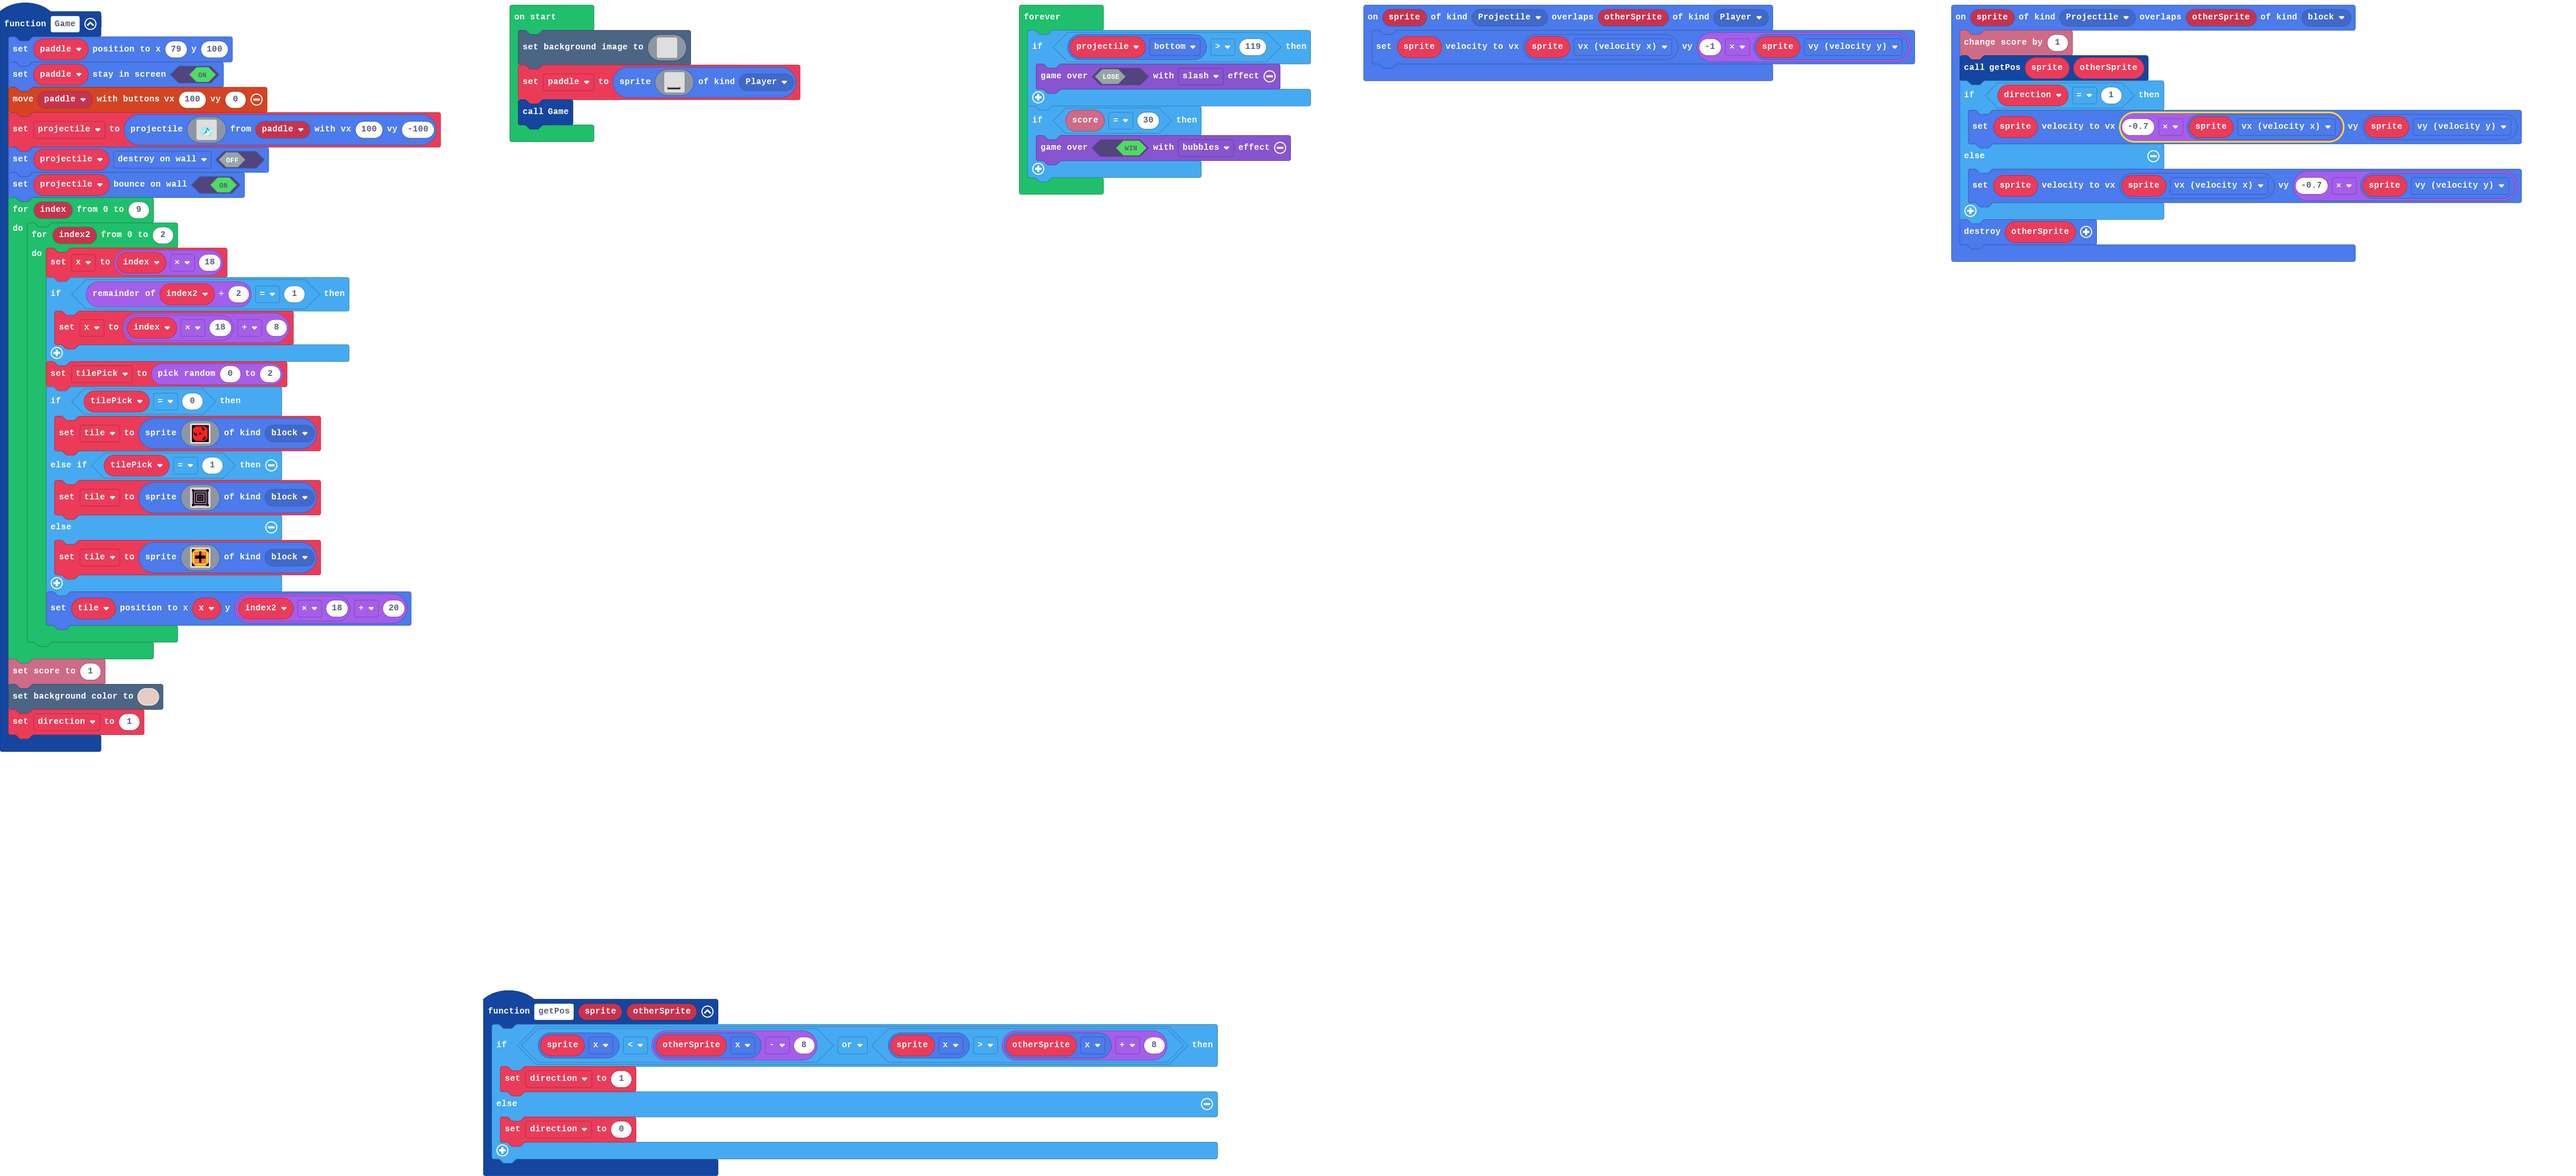
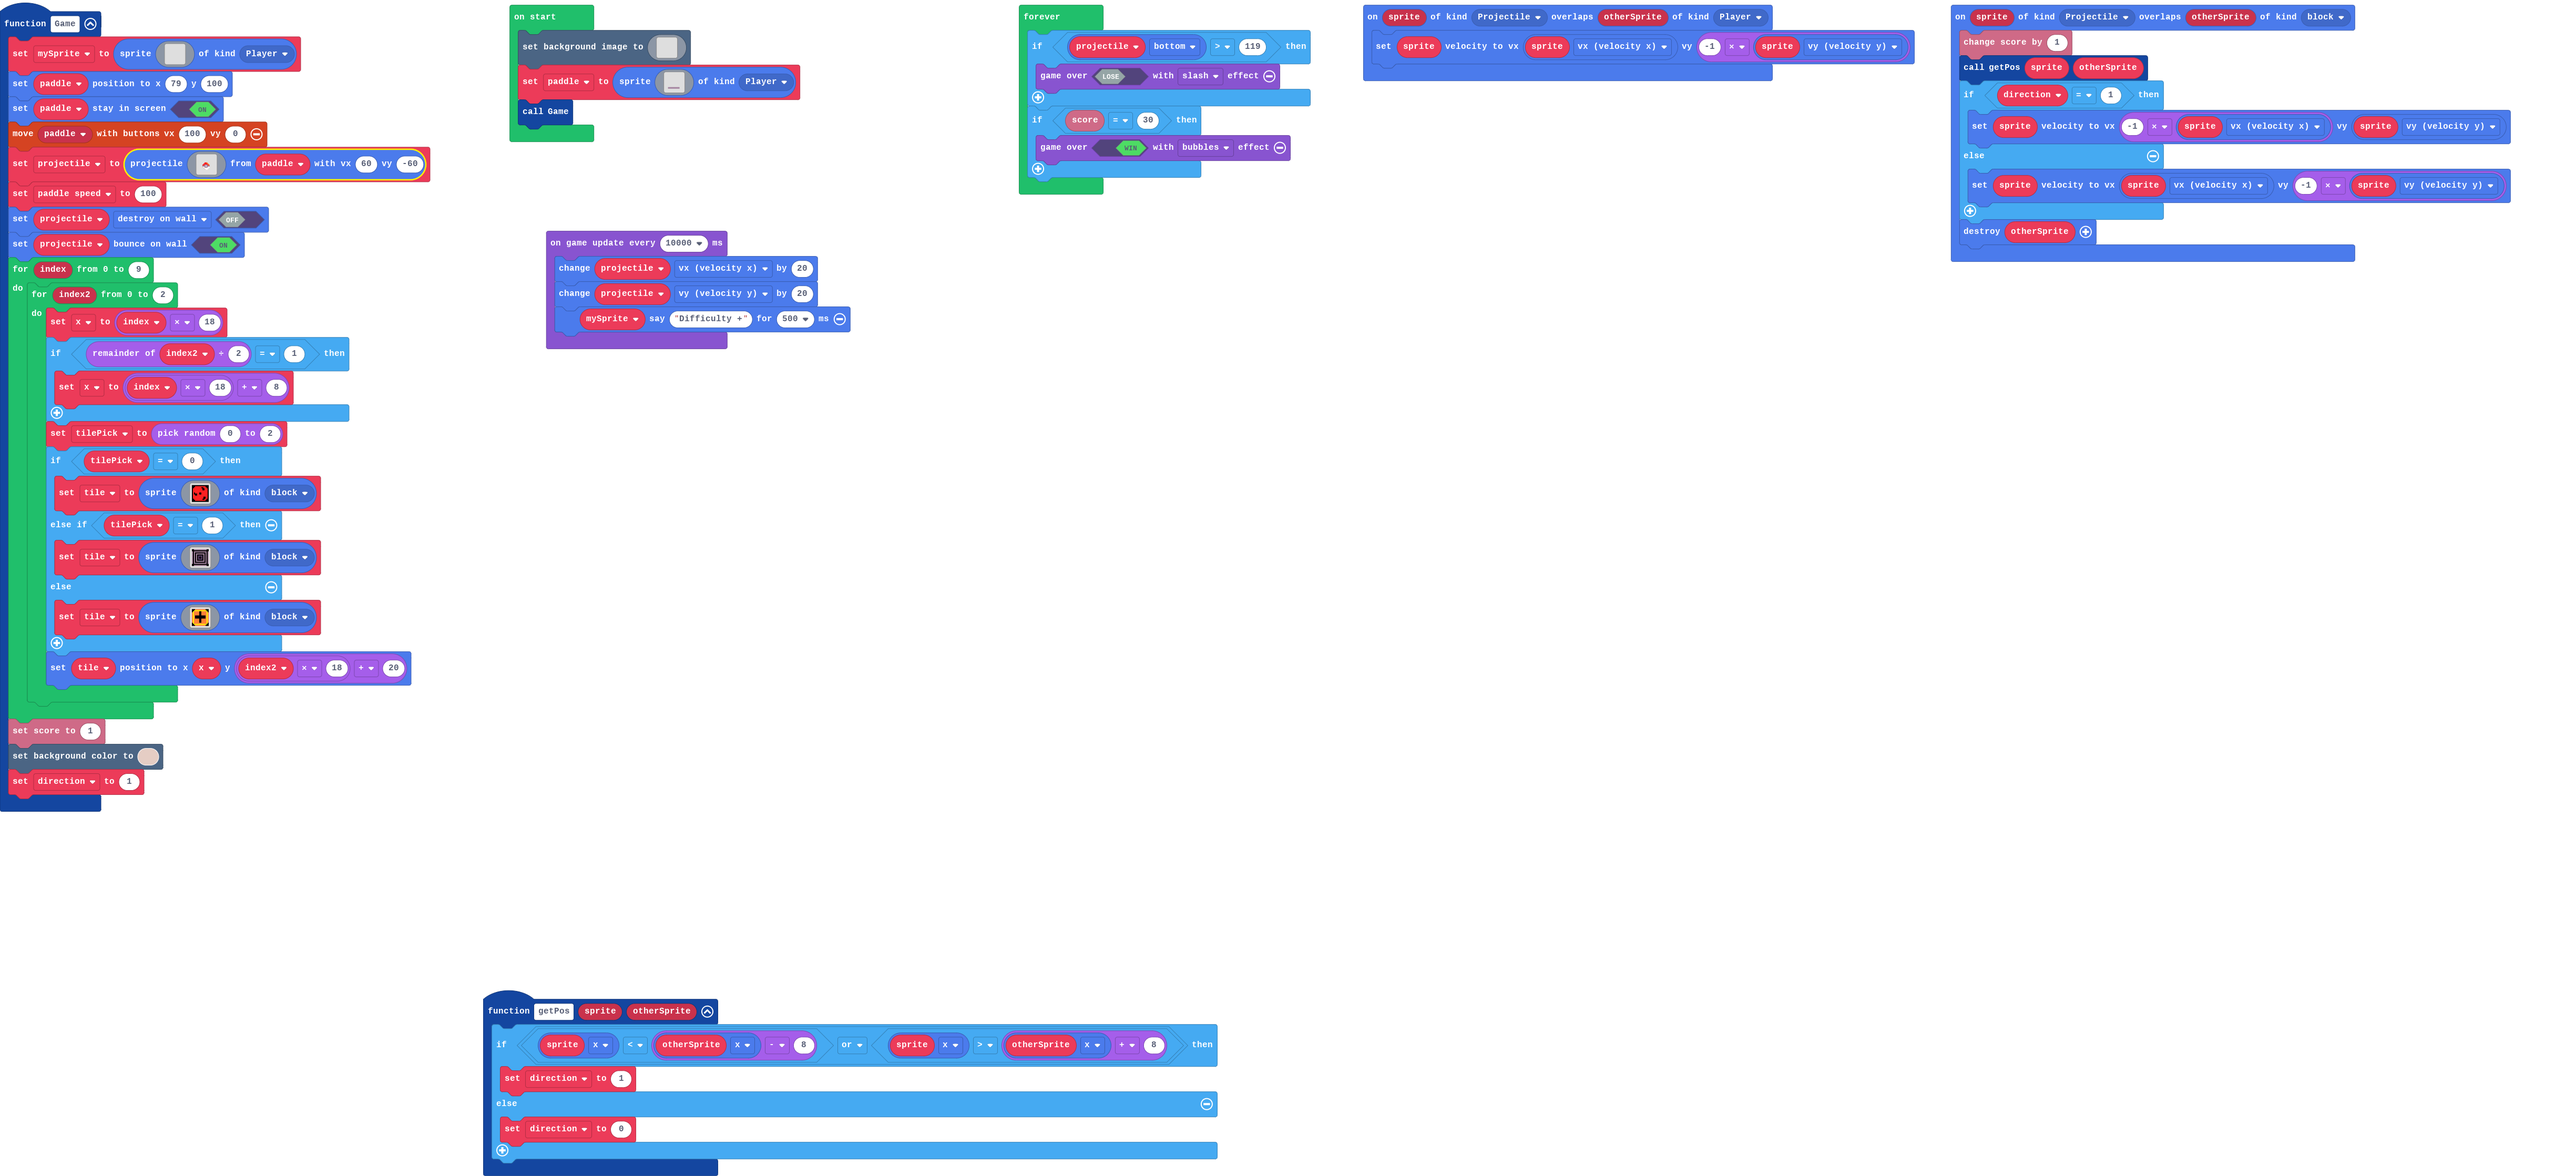
Update main.ts, main.blocks

diff --git a/main.ts b/main.ts
@@ -2,6 +2,24 @@ namespace SpriteKind {
     export const block = SpriteKind.create()
 }
 function Game () {
+    mySprite = sprites.create(img`
+        . . . . . . . . . . . . . . . . 
+        . . . . . . . . . . . . . . . . 
+        . . . . . . . . . . . . . . . . 
+        . . . . . . . . . . . . . . . . 
+        . . . . . . . . . . . . . . . . 
+        . . . . . . . . . . . . . . . . 
+        . . . . . . . . . . . . . . . . 
+        . . . . . . . . . . . . . . . . 
+        . . . . . . . . . . . . . . . . 
+        . . . . . . . . . . . . . . . . 
+        . . . . . . . . . . . . . . . . 
+        . . . . . . . . . . . . . . . . 
+        . . . . . . . . . . . . . . . . 
+        . . . . . . . . . . . . . . . . 
+        . . . . . . . . . . . . . . . . 
+        . . . . . . . . . . . . . . . . 
+        `, SpriteKind.Player)
     paddle.setPosition(79, 100)
     paddle.setStayInScreen(true)
     controller.moveSprite(paddle, 100, 0)
@@ -10,19 +28,20 @@ function Game () {
         . . . . . . . . . . . . . . . . 
         . . . . . . . . . . . . . . . . 
         . . . . . . . . . . . . . . . . 
-        . . . . . 9 . . . . . . . . . . 
-        . . . . 9 9 . . . . 9 . . . . . 
-        . . . 9 9 . 9 9 6 . 9 9 . . . . 
-        . . . 9 . 9 9 1 6 6 . 9 9 . . . 
-        . . . . 9 9 1 6 1 6 9 . . . . . 
-        . . . . 9 1 1 6 9 1 9 . . . . . 
-        . . 9 . 9 1 6 6 9 1 9 . . . . . 
-        . . 9 9 . 6 9 9 1 1 . . 9 . . . 
-        . . . 9 9 . 1 1 1 . . 9 9 . . . 
-        . . . . 9 . . . . 9 9 9 . . . . 
         . . . . . . . . . . . . . . . . 
         . . . . . . . . . . . . . . . . 
-        `, paddle, 100, -100)
+        . . . . . . 2 2 4 . . . . . . . 
+        . . . . . 2 2 2 2 4 . . . . . . 
+        . . . . 2 2 b b b 2 4 . . . . . 
+        . . . . b b b 1 b b b . . . . . 
+        . . . . d 1 b b b 1 1 . . . . . 
+        . . . . . d 1 1 1 1 . . . . . . 
+        . . . . . . d 1 1 . . . . . . . 
+        . . . . . . . . . . . . . . . . 
+        . . . . . . . . . . . . . . . . 
+        . . . . . . . . . . . . . . . . 
+        `, paddle, 60, -60)
+    paddle_speed = 100
     projectile.setFlag(SpriteFlag.DestroyOnWall, false)
     projectile.setBounceOnWall(true)
     for (let index = 0; index <= 9; index++) {
@@ -111,9 +130,9 @@ sprites.onOverlap(SpriteKind.Projectile, SpriteKind.block, function (sprite, oth
     info.changeScoreBy(1)
     getPos(sprite, otherSprite)
     if (direction == 1) {
-        sprite.setVelocity(-0.7 * sprite.vx, sprite.vy)
+        sprite.setVelocity(-1 * sprite.vx, sprite.vy)
     } else {
-        sprite.setVelocity(sprite.vx, -0.7 * sprite.vy)
+        sprite.setVelocity(sprite.vx, -1 * sprite.vy)
     }
     otherSprite.destroy()
 })
@@ -121,7 +140,9 @@ let direction = 0
 let tile: Sprite = null
 let tilePick = 0
 let x = 0
+let paddle_speed = 0
 let projectile: Sprite = null
+let mySprite: Sprite = null
 let paddle: Sprite = null
 scene.setBackgroundImage(img`
     ................................................................................................................................................................
@@ -271,10 +292,10 @@ paddle = sprites.create(img`
     ................................
     ................................
     ................................
-    ...fbbbbbbbbbbbbbbbbbbbbbbf.....
-    ...fbbbbbbbbbbbbbbbbbbbbbbf.....
-    ...ffffffffffffffffffffffff.....
-    ...ffffffffffffffffffffffff.....
+    ....bbbbbbbbbbbbbbbbbbbbbb......
+    ....bbbbbbbbbbbbbbbbbbbbbb......
+    ....bbbbbbbbbbbbbbbbbbbbbb......
+    ................................
     ................................
     ................................
     ................................
@@ -287,4 +308,9 @@ forever(function () {
     if (info.score() == 30) {
         game.over(true, effects.bubbles)
     }
+})
+game.onUpdateInterval(10000, function () {
+    projectile.vx += 20
+    projectile.vy += 20
+    mySprite.say("Difficulty +", 500)
 })
